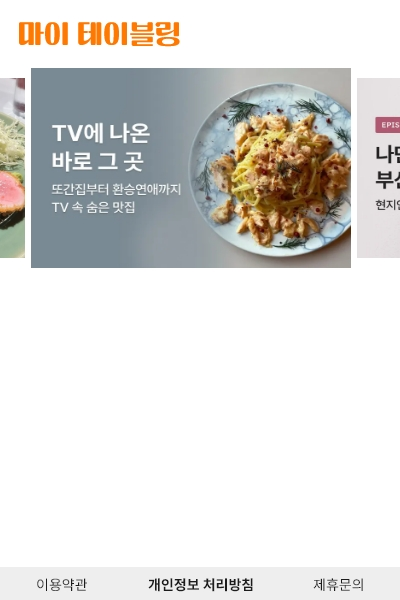
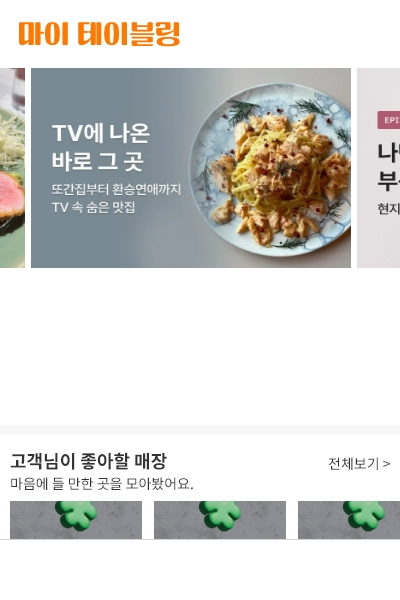
고객메인화면 디자인 변경&점주측예약화면 리스트 작업중

diff --git a/src/tabling/frame/RestaurantMainMenuFrame.java b/src/tabling/frame/RestaurantMainMenuFrame.java
@@ -1,36 +1,48 @@
 package tabling.frame;
 
+import java.awt.Font;
+
 import javax.swing.JComboBox;
 import javax.swing.JFrame;
+import javax.swing.JLabel;
 import javax.swing.JScrollPane;
 import javax.swing.JTable;
-import javax.swing.JTextField;
+import javax.swing.table.DefaultTableCellRenderer;
+import javax.swing.table.DefaultTableModel;
 
+import tabling.dao.RestaurantReservationDAO;
 import tabling.dto.RestaurantDTO;
 
 public class RestaurantMainMenuFrame extends JFrame {
 
-	private RestaurantDTO restaurantDTO;
+	private RestaurantDTO restDTO;
 	// TODO - 테이블로 리스트 띄우기 하는 중
+	private RestaurantReservationDAO restDAO;
 	private JTable table;
 	private JScrollPane scroll;
 	private JComboBox<String> filter;
+//	private TableRowSorter<DefaultTableModel> sorter; // sorter 필요없음
+	// DefaultTableModel 클래스 파라미터 값 2개 - head, contents
+	private String[] head = { "고객 닉네임", "고객 전화번호", "예약시간","예약상태" };
+	private String[][] contents = { { "중구", "0101111111", "09:00","예약종료" }, { "진구", "01022222222", "13:00","대기중" } };
+	// 리스트
+//	private List<RestaurantDTO> reserList = new ArrayList<>();
 
-	public RestaurantMainMenuFrame(RestaurantDTO restaurantDTO) {
-		this.restaurantDTO = restaurantDTO;
+	public RestaurantMainMenuFrame(RestaurantDTO restDTO) {
+		this.restDTO = restDTO;
+//		this.reserList = reserList;
 		initData();
 		setInitLayout();
 		initListener();
 	}
 
 	private void initData() {
-
-		// TODO Auto-generated method stub
-
+		// 테이블에 담는 메소드
+		tableSet();
 	}
 
 	private void setInitLayout() {
-		setTitle("Tabling - " + restaurantDTO.getRestaurantName());
+		setTitle("Tabling - " + restDTO.getRestaurantName());
 		setSize(500, 700);
 		setLocationRelativeTo(null);
 		setDefaultCloseOperation(JFrame.EXIT_ON_CLOSE);
@@ -42,6 +54,48 @@ public class RestaurantMainMenuFrame extends JFrame {
 
 	private void initListener() {
 		// TODO Auto-generated method stub
+
+	}
+
+	private void tableSet() {
+//		contents = new String[contents][head.length];
+
+		// 테이블
+		DefaultTableModel tableModel = new DefaultTableModel(contents, head); // 모델과 데이터 연결
+		table = new JTable(tableModel) {
+			@Override
+			public boolean isCellEditable(int row, int column) {
+				return false;
+			}
+		};
+
+		// 테이블 검색 필드 초기화 -- 필요없음
+//		sorter = new TableRowSorter<>(tableModel);
+//		table.setRowSorter(sorter);
+
+		// 스크롤
+		scroll = new JScrollPane(table);
+		add(scroll);
+		scroll.setSize(450, 450);
+		scroll.setLocation(20, 170);
+
+		// 테이블에 개별 셀을 표시하기 위한 클래스
+		DefaultTableCellRenderer centerAlign = new DefaultTableCellRenderer();
+		centerAlign.setHorizontalAlignment(JLabel.CENTER);
+
+		// 테이블 폰트
+		table.setFont(new Font("Noto Sans KR", Font.BOLD, 15));
+		table.setRowHeight(25);
+		table.getTableHeader().setReorderingAllowed(false); // 컬럼 이동 불가
+
+		// 테이블에 컬럼 추가
+		table.getColumn("고객 닉네임").setPreferredWidth(120);
+		table.getColumn("고객 전화번호").setPreferredWidth(120);
+		table.getColumn("예약시간").setPreferredWidth(80);
+		table.getColumn("예약상태").setPreferredWidth(90);
+
+		//
+		repaint();
 
 	}
 

diff --git a/src/tabling/frame/RestaurantLoginFrame.java b/src/tabling/frame/RestaurantLoginFrame.java
@@ -5,6 +5,8 @@ import java.awt.Graphics;
 import java.awt.Image;
 import java.awt.event.MouseAdapter;
 import java.awt.event.MouseEvent;
+import java.util.ArrayList;
+import java.util.List;
 
 import javax.swing.ImageIcon;
 import javax.swing.JFrame;
@@ -25,8 +27,11 @@ public class RestaurantLoginFrame extends JFrame {
 	private JLabel backBtn;
 	private boolean loginCheck;
 	private RestaurantDAO restaurantDao;
-	private RestaurantDTO restaurantDTO;
+	private RestaurantDTO restDTO;
 	private int restaurantId;
+	
+	//
+	private List<RestaurantDTO> reserList;
 
 	public RestaurantLoginFrame() {
 		initData();
@@ -42,7 +47,7 @@ public class RestaurantLoginFrame extends JFrame {
 		backBtn = new JLabel(new ImageIcon("img/quitBtn.png"));
 
 		restaurantDao = new RestaurantDAO();
-		restaurantDTO = new RestaurantDTO();
+		restDTO = new RestaurantDTO();
 	}
 
 	private void setInitLayout() {
@@ -88,12 +93,12 @@ public class RestaurantLoginFrame extends JFrame {
 				try {
 					if (!resIdText.getText().equals("") || !resPwText.getText().equals("")) {
 						restaurantId = Integer.parseInt(resIdText.getText());
-						if ((restaurantDTO = restaurantDao.authenticateOwnerId(restaurantId)) != null
+						if ((restDTO = restaurantDao.authenticateOwnerId(restaurantId)) != null
 								&& resPwText.getText().equals("1111")) {
 							JOptionPane.showMessageDialog(null, "로그인 되었습니다.", "성공", JOptionPane.WARNING_MESSAGE);
 							setVisible(false);
-							new RestaurantMainMenuFrame(restaurantDTO);
-						} else if ((restaurantDTO = restaurantDao.authenticateOwnerId(restaurantId)) == null) {
+							new RestaurantMainMenuFrame(restDTO); //
+						} else if ((restDTO = restaurantDao.authenticateOwnerId(restaurantId)) == null) {
 							JOptionPane.showMessageDialog(null, "아이디가 올바르지 않습니다.", "성공", JOptionPane.WARNING_MESSAGE);
 						} else {
 							JOptionPane.showMessageDialog(null, "비밀번호가 올바르지 않습니다.", "성공", JOptionPane.WARNING_MESSAGE);

diff --git a/src/tabling/frame/CustomerMainMenuFrame.java b/src/tabling/frame/CustomerMainMenuFrame.java
@@ -23,7 +23,12 @@ public class CustomerMainMenuFrame extends JFrame {
 	private JLabel locationBtn;
 	private JLabel reservationBtn;
 	private JLabel userInfoBtn;
-
+	private JLabel homeBtn;
+	private JLabel underReservationBtn;
+	private JLabel underCategoryBtn;
+	private JLabel underLocationBtn;
+	private JLabel userInfoBtn2;
+	
 	private CustomerDTO customerDTO;
 	public CustomerMainMenuFrame(CustomerDTO customerDTO) {
 		this.customerDTO = customerDTO;
@@ -45,6 +50,12 @@ public class CustomerMainMenuFrame extends JFrame {
 		categoryBtn = new JLabel(new ImageIcon("img/categoryBtn.png"));
 		locationBtn = new JLabel(new ImageIcon("img/locationBtn.png"));
 		userInfoBtn = new JLabel(new ImageIcon("img/gearSolid.png"));
+		
+		homeBtn = new JLabel(new ImageIcon("img/house-solid.png"));
+		underReservationBtn = new JLabel(new ImageIcon("img/utensils-solid.png"));
+		underCategoryBtn = new JLabel(new ImageIcon("img/list-solid.png"));
+		underLocationBtn = new JLabel(new ImageIcon("img/location-dot-solid.png"));
+		userInfoBtn2 = new JLabel(new ImageIcon("img/user-solid.png"));
 	}
 
 	private void setInitLayout() {
@@ -68,6 +79,17 @@ public class CustomerMainMenuFrame extends JFrame {
 		userInfoBtn.setBounds(430, 20, 30, 30);
 		backgroundPanel.add(userInfoBtn);
 
+		homeBtn.setBounds(50, 600, 50, 50);
+		backgroundPanel.add(homeBtn);
+		underReservationBtn.setBounds(130, 600, 50, 50);
+		backgroundPanel.add(underReservationBtn);
+		underCategoryBtn.setBounds(220, 600, 50, 50);
+		backgroundPanel.add(underCategoryBtn);
+		underLocationBtn.setBounds(300, 600, 50, 50);
+		backgroundPanel.add(underLocationBtn);
+		userInfoBtn2.setBounds(390, 600, 50, 50);
+		backgroundPanel.add(userInfoBtn2);
+		
 	}
 
 	private void initListener() {
